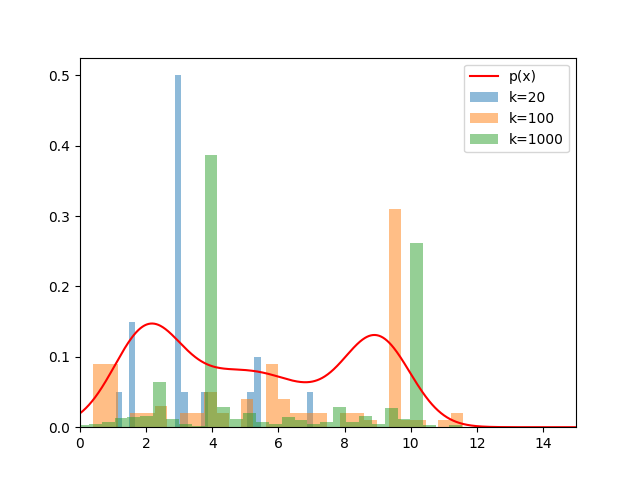
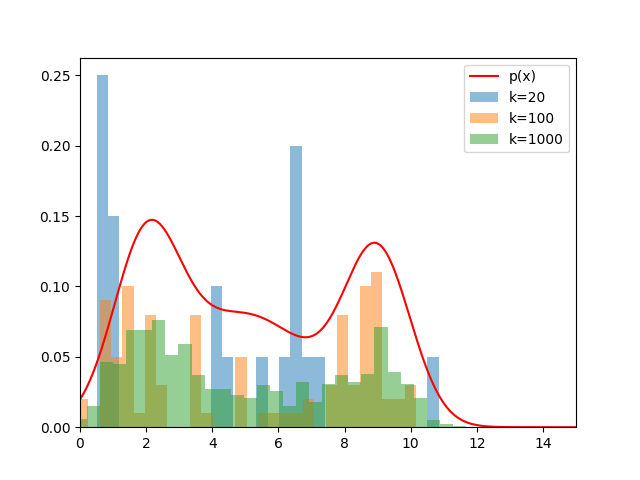
Ex3 - 3. commit

Changed region(s): [[0.0625, 0.1562, 0.75, 0.9062], [0.0625, 0.125, 0.0938, 0.1875]]

diff --git a/Ex2/aflevering.py b/Ex2/aflevering.py
@@ -42,7 +42,7 @@ def sir(k, distibrution):
     if distibrution == 'uniform':
         # Generate initial samples
         samples = q_uniform(k)
-        weights = p(samples) / q_uniform(k) #This is wrong: You should divide by the probability density of the sample. For this uniform distribution it is 1/15.
+        weights = p(samples) / (1/15)#q_uniform(k) #This is wrong: You should divide by the probability density of the sample. For this uniform distribution it is 1/15.
     elif distibrution == 'gauss': 
         # Generate initial samples
         samples = q_gauss(k, True)
